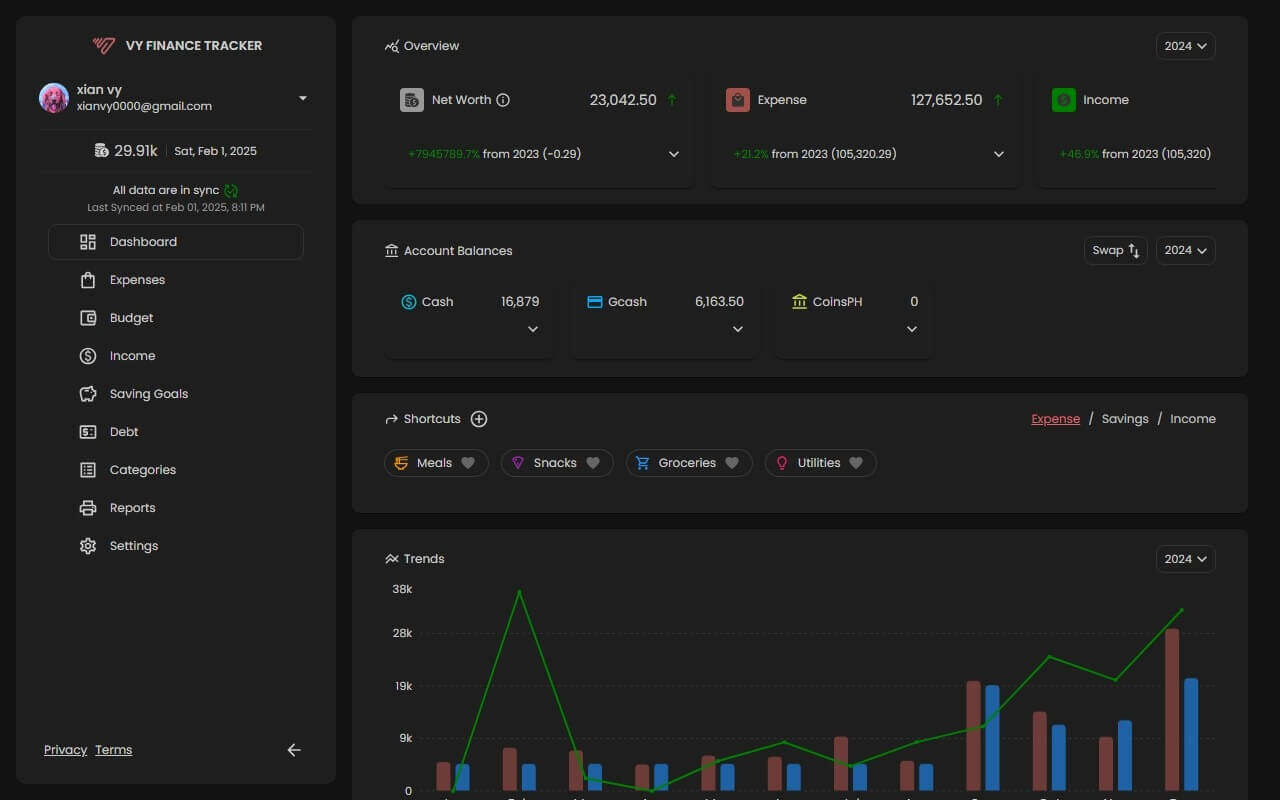
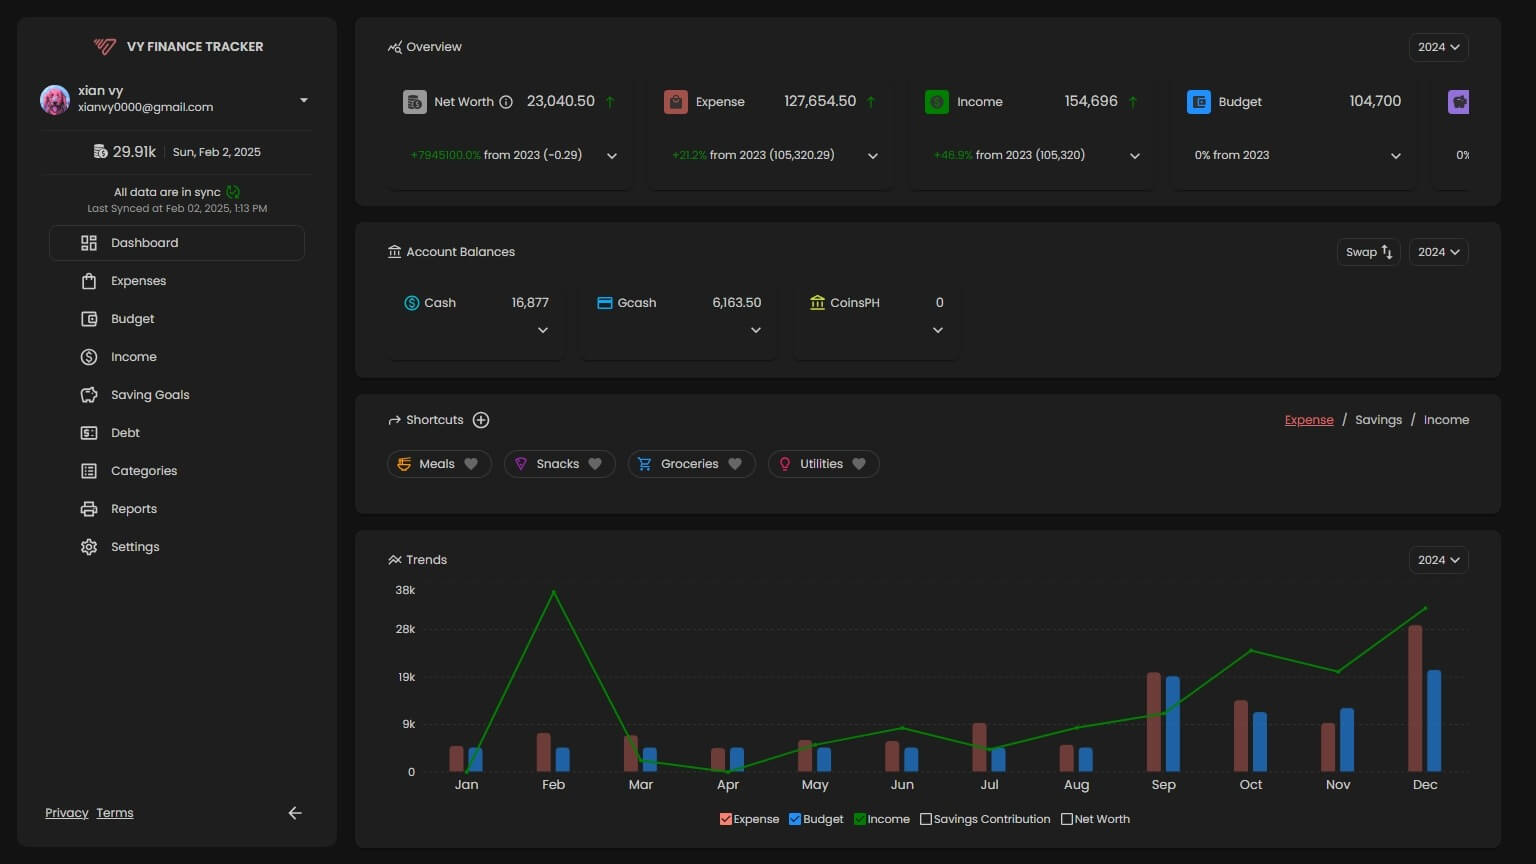
Revamp feature image

diff --git a/src/components/PublicComponents/FeaturesIMG.tsx b/src/components/PublicComponents/FeaturesIMG.tsx
@@ -1,101 +1,30 @@
-import { Box, Link, Stack } from "@mui/material";
+import { Stack } from "@mui/material";
 import { useEffect, useState } from "react";
 import { useSelector } from "react-redux";
-import budgetDark from "../../media/features/budget-dark.jpeg";
-import budgetLight from "../../media/features/budget-light.jpeg";
 import dashboardDark from "../../media/features/dashboard-dark.jpeg";
 import dashboardLight from "../../media/features/dashboard-light.jpeg";
-import expenseDark from "../../media/features/expenses-dark.jpeg";
-import expenseLight from "../../media/features/expenses-light.jpeg";
 import { RootState } from "../../redux/store";
-const features = [
-  { name: "Expenses", laptopImg: expenseLight, laptopImgDark: expenseDark },
-  { name: "Dashboard", laptopImg: dashboardLight, laptopImgDark: dashboardDark },
-  { name: "Budget", laptopImg: budgetLight, laptopImgDark: budgetDark },
-];
+
 const FeaturesIMG = () => {
   const darktheme = useSelector((state: RootState) => state.theme.darkMode);
   const [currentImage, setCurrentImage] = useState(darktheme ? dashboardDark : dashboardLight);
-
-  const handleBreadcrumbClick = (laptopImage: string) => {
-    setCurrentImage(laptopImage);
-  };
-
   useEffect(() => {
     setCurrentImage(darktheme ? dashboardDark : dashboardLight);
   }, [darktheme]);
   return (
-    <>
-      <Stack justifyContent="center" alignItems="center" direction="column" maxWidth="md" mt={4} width="100%">
-        <Box display="flex" flexDirection="column" justifyContent="space-between" alignItems="center">
-          <Stack direction="column" alignItems="center" justifyContent="flex-start" mb={{ xs: 2, md: 0 }}>
-            <Stack direction="row" alignItems="center" mb={1.2} sx={{ px: 0.5 }}>
-              {features.map((feature) => (
-                <Link
-                  key={feature.name}
-                  color="inherit"
-                  onClick={() => handleBreadcrumbClick(darktheme ? feature.laptopImgDark : feature.laptopImg)}
-                  sx={{
-                    textDecoration: "none",
-                    WebkitTapHighlightColor: "transparent",
-                    fontSize:"0.85rem",
-                    borderBottom:
-                      currentImage === feature.laptopImg || currentImage === feature.laptopImgDark
-                        ? `solid 3px #d86c70`
-                        : "none",
-
-                    mx: { xs: 1, md: 1.5 },
-                    fontWeight: 500,
-                    cursor: "pointer",
-                    color: darktheme ? "#ccc" : "#222",
-                  }}
-                >
-                  {feature.name}
-                </Link>
-              ))}
-            </Stack>
-            <Stack
-              direction="row"
-              justifyContent="center"
-              alignItems="center"
-              sx={{
-                mx: "auto",
-                my: 2,
-                borderRadius: 2,
+      <Stack maxWidth="md" direction="column" alignItems="center" justifyContent="center" my={6}  mb={{ xs: 2, md: 0 }} 
+       sx={{ height: { xs: 200, sm: 320, md: 400, lg: 450,xl: 500 }, ml:{xs:0.5,sm:1}}}>
+            <img
+              src={currentImage}
+              style={{
+                width: "auto",
+                height: "100%",
+                cursor: "pointer",
+                WebkitTapHighlightColor: "transparent",
               }}
-            >
-              <Stack sx={{ background: darktheme ? "#222" : "#666", p: 0.2, borderRadius: 3 }}>
-                <Stack
-                  sx={{
-                    background: darktheme ? "#101010" : "#666",
-                    py: { xs: 1.5, lg: 2 },
-                    px:0.8,
-                    height: { xs: 220, sm: 350, md: 450, lg: 500 },
-                    position: "relative",
-                    borderRadius: 3,
-                    display: "flex",
-                    justifyContent: "center",
-                    alignItems: "center",
-                  }}
-                >
-                  <img
-                    src={currentImage}
-                    style={{
-                      width: "auto",
-                      height: "100%",
-                      cursor: "pointer",
-                      WebkitTapHighlightColor: "transparent",
-                    }}
-                    alt="laptop"
-                  />
-                </Stack>
-              </Stack>
-            </Stack>
-          </Stack>
-        </Box>
+              alt="laptop"
+            />
       </Stack>
-   
-    </>
   );
 };
 export default FeaturesIMG;
